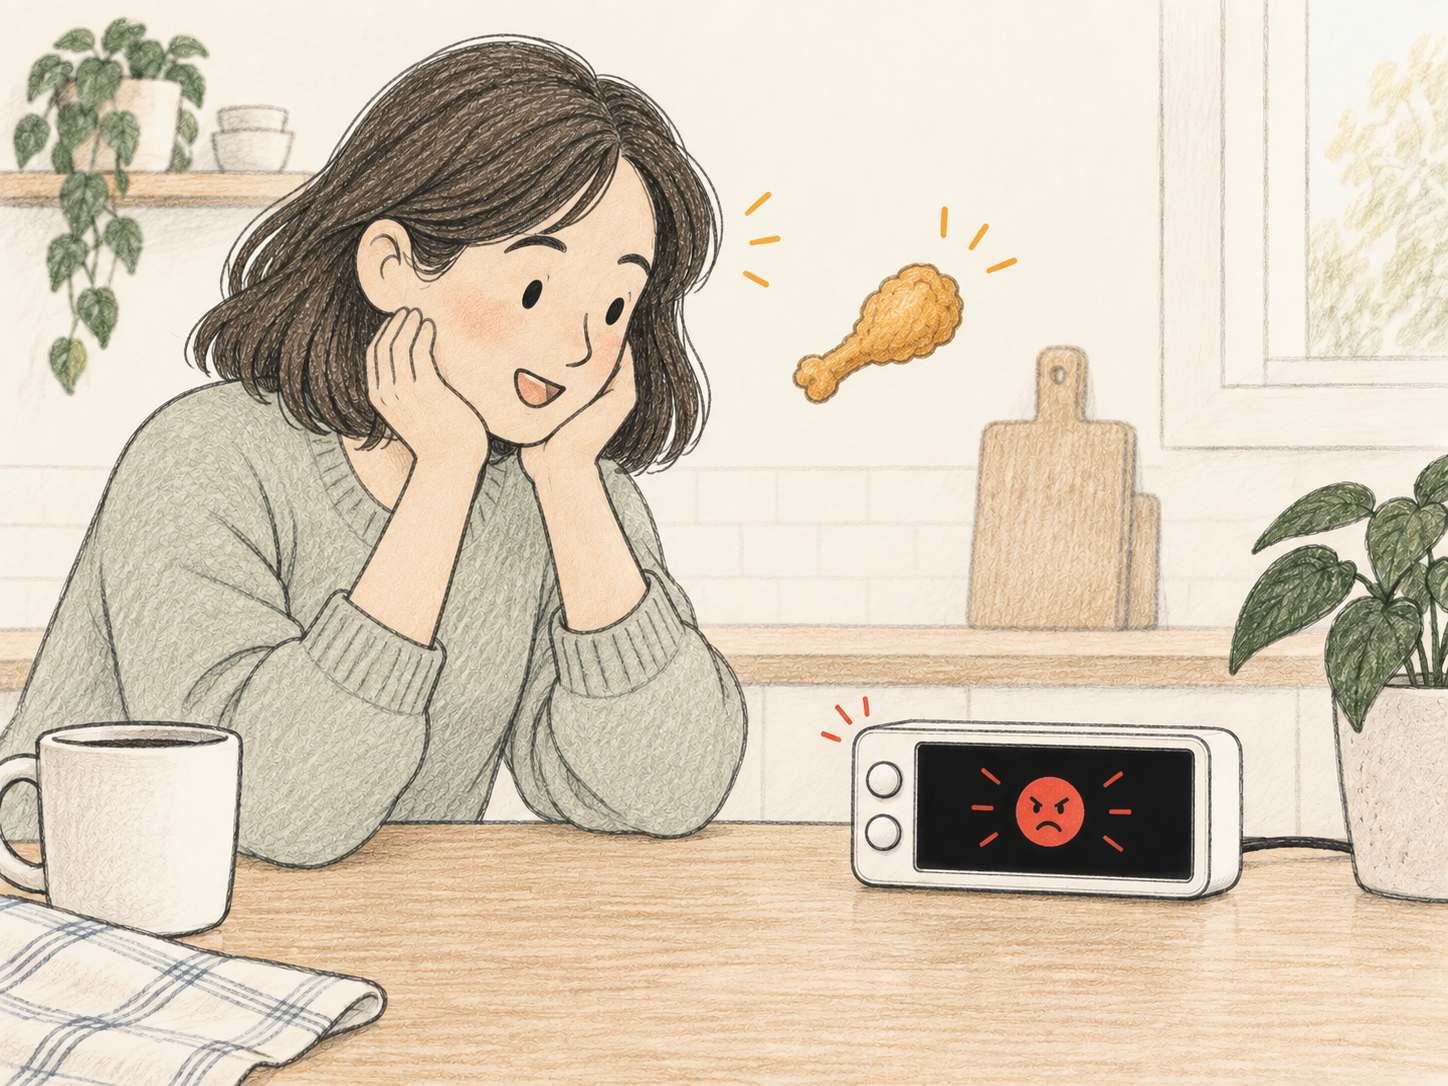
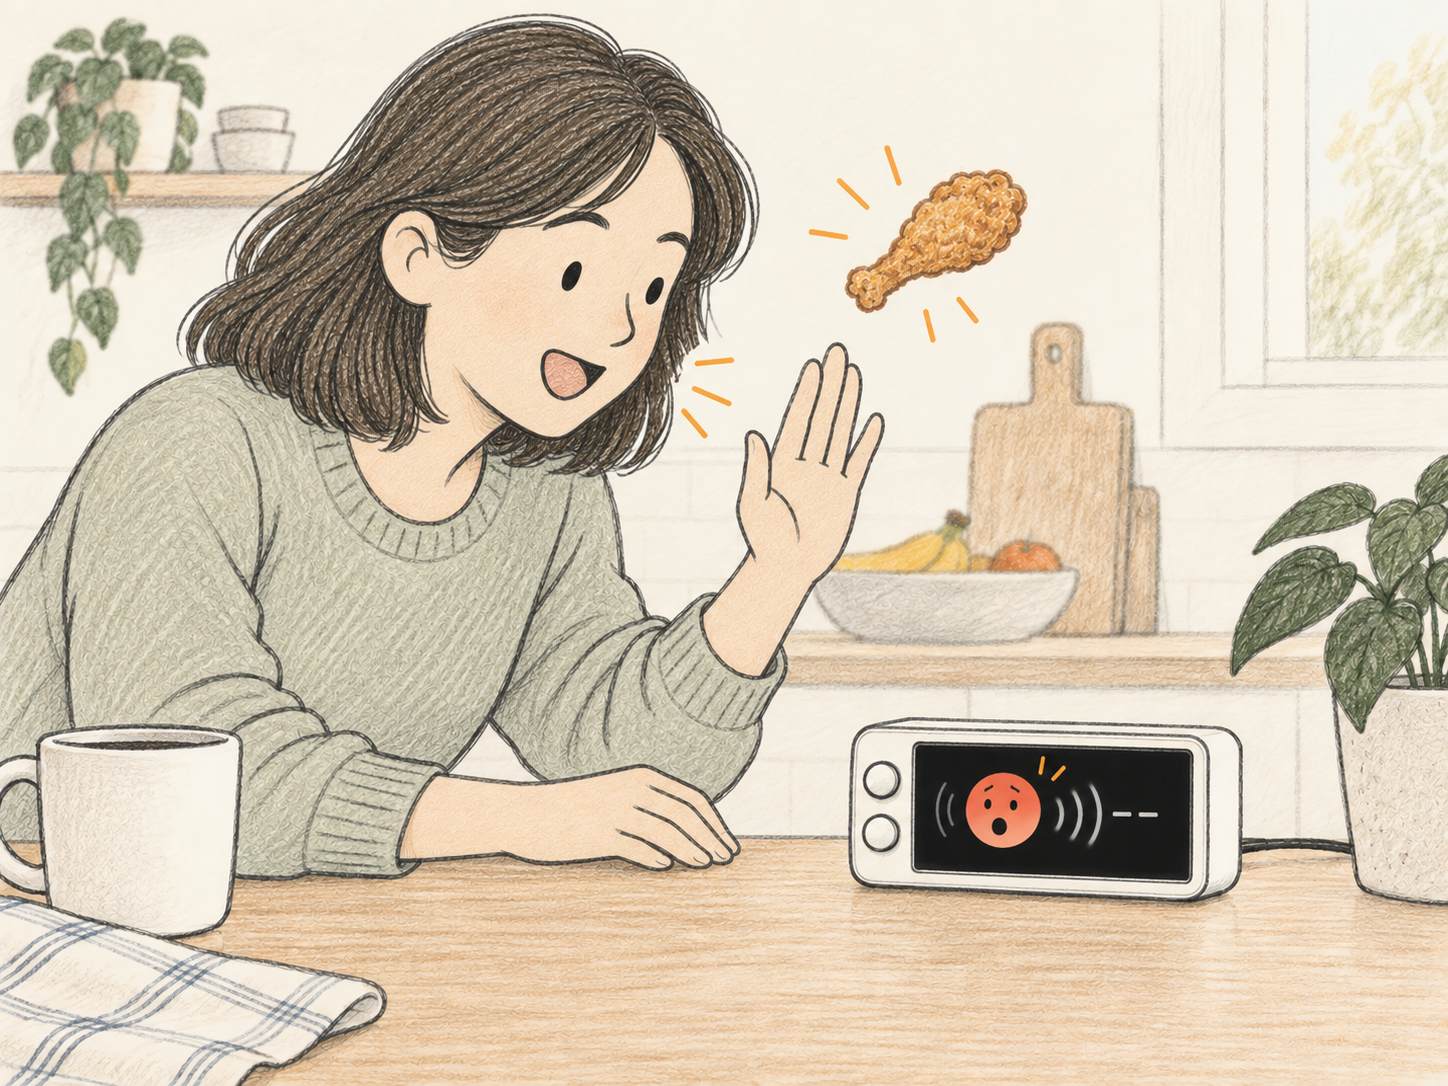
Clarify Lab 3 storyboard turn taking

diff --git a/Lab 3/storyboard-roast-coach.html b/Lab 3/storyboard-roast-coach.html
@@ -24,6 +24,9 @@
     figcaption { padding-top:8px; }
     figcaption strong { display:block; font:700 18px/1.15 Georgia,"Times New Roman",serif; }
     figcaption span { display:block; margin-top:4px; color:var(--muted); font-size:10px; line-height:1.4; letter-spacing:.06em; text-transform:uppercase; }
+    .cue-defs { position:absolute; width:0; height:0; overflow:hidden; }
+    .cue { display:flex; align-items:center; gap:7px; margin-top:4px; color:var(--muted); font-size:10px; line-height:1.4; letter-spacing:.06em; text-transform:uppercase; }
+    .cue svg { flex:none; width:54px; height:15px; fill:none; stroke:currentColor; stroke-width:1.35; stroke-linecap:round; stroke-linejoin:round; }
     .done figcaption strong { color:#ad5e3c; }
     .rhythm { display:flex; justify-content:space-between; align-items:center; gap:40px; border-top:1px solid var(--line); margin-top:38px; padding-top:20px; }
     .rhythm p { margin:0; display:flex; gap:28px; color:var(--muted); font-size:10px; letter-spacing:.06em; text-transform:uppercase; line-height:1.6; }
@@ -43,32 +46,38 @@
   <nav class="tools" aria-label="Download"><a href="storyboard-roast-coach-render.png" download>Download PNG</a></nav>
   <main class="page" id="storyboard">
     <h1>The Roast Coach</h1>
+<svg class="cue-defs" aria-hidden="true" xmlns="http://www.w3.org/2000/svg">
+  <symbol id="cue-listen" viewBox="0 0 60 16"><path d="M2 8 C7 8 7 3 12 3 S17 13 22 13 S27 3 32 3 S37 13 42 13 L49 8 M49 4 L55 8 L49 12"/></symbol>
+  <symbol id="cue-speak" viewBox="0 0 60 16"><path d="M11 4 L5 8 L11 12 M5 8 H16 C21 8 21 3 26 3 S31 13 36 13 S41 3 46 3 S51 8 56 8"/></symbol>
+  <symbol id="cue-cut" viewBox="0 0 60 16"><path d="M2 8 C6 8 6 3 10 3 S14 13 18 13 L22 8 M25 3 L33 13 M33 3 L25 13 M37 8 C41 8 41 3 45 3 S49 13 53 13 M53 4 L58 8 L53 12"/></symbol>
+  <symbol id="cue-hold" viewBox="0 0 60 16"><path d="M5 8 H55"/></symbol>
+</svg>
 <section class="route" aria-labelledby="route-food">
   <h2 id="route-food">One check-in · three food reports</h2>
   <div class="grid">
     <figure>
       <div class="frame"><img src="assets/storyboard-roast-coach/01-start.png" alt="A woman presses the top button of a two-button Orange device; a small neutral face wakes on its screen."><span class="number">01</span></div>
-      <figcaption><strong>Press to check in</strong><span>TOP BUTTON · LISTENING</span></figcaption>
+      <figcaption><strong>Press to check in</strong><small class="cue"><svg aria-hidden="true"><use href="#cue-listen"/></svg>USER → DEVICE · LISTENING</small></figcaption>
     </figure>
     <figure>
       <div class="frame"><img src="assets/storyboard-roast-coach/02-broccoli.png" alt="The woman reports broccoli; the device shows a delighted green circular face."><span class="number">02</span></div>
-      <figcaption><strong>Broccoli earns a cheer</strong><span>GREEN · PROUD</span></figcaption>
+      <figcaption><strong>Broccoli earns a cheer</strong><small class="cue"><svg aria-hidden="true"><use href="#cue-speak"/></svg>DEVICE → USER · GREEN PRAISE</small></figcaption>
     </figure>
     <figure>
       <div class="frame"><img src="assets/storyboard-roast-coach/03-cake.png" alt="The woman admits cake; the circular face turns yellow and raises an eyebrow."><span class="number">03</span></div>
-      <figcaption><strong>Cake raises an eyebrow</strong><span>YELLOW · DRY SARCASM</span></figcaption>
+      <figcaption><strong>Cake raises an eyebrow</strong><small class="cue"><svg aria-hidden="true"><use href="#cue-speak"/></svg>DEVICE → USER · YELLOW ROAST</small></figcaption>
     </figure>
     <figure>
-      <div class="frame"><img src="assets/storyboard-roast-coach/04-chicken.png" alt="The woman adds fried chicken; the device face turns red and glares."><span class="number">04</span></div>
-      <figcaption><strong>Then: fried chicken</strong><span>INTERRUPTION · RED</span></figcaption>
+      <div class="frame"><img src="assets/storyboard-roast-coach/04-chicken.png" alt="The woman raises a hand and interrupts the coach with fried chicken; its yellow face starts turning red as its speech cuts off."><span class="number">04</span></div>
+      <figcaption><strong>She interrupts the coach</strong><small class="cue"><svg aria-hidden="true"><use href="#cue-cut"/></svg>FRIED CHICKEN · VOICE CUT</small></figcaption>
     </figure>
     <figure>
       <div class="frame"><img src="assets/storyboard-roast-coach/05-pause.png" alt="Close-up of the red circular face holding a silent stare while the woman waits."><span class="number">05</span></div>
-      <figcaption><strong>Hold the stare</strong><span>ONE COMIC BEAT</span></figcaption>
+      <figcaption><strong>Hold the stare</strong><small class="cue"><svg aria-hidden="true"><use href="#cue-hold"/></svg>RED · ONE SECOND SILENCE</small></figcaption>
     </figure>
     <figure>
       <div class="frame"><img src="assets/storyboard-roast-coach/06-laugh.png" alt="The woman laughs and reaches for the top button as the red circular face smirks."><span class="number">06</span></div>
-      <figcaption><strong>The punchline lands</strong><span>USER LAUGHS · PRESS TO STOP</span></figcaption>
+      <figcaption><strong>The punchline lands</strong><small class="cue"><svg aria-hidden="true"><use href="#cue-speak"/></svg>DEVICE → USER · LAUGH / STOP</small></figcaption>
     </figure>
   </div>
 </section>

diff --git a/Lab 3/README.md b/Lab 3/README.md
@@ -270,9 +270,11 @@ Storyboard and/or use a Verplank diagram to design a speech-enabled device. (Stu
 >
 > [Open the storyboard HTML](storyboard-roast-coach.html) (the PNG above is the report version).
 >
-> **Concept and process.** We first mapped the idea with Verplank's eight prompts: **Idea/Error:** turn an ordinary food log into an entertaining conversation whose feedback is easier to notice; **Metaphor/Scenario:** a demanding but funny coach hears a person's day of eating; **Model/Task:** the person presses the top button, reports foods in sequence, and understands that the coach's mood responds to the day's reported context; **Display/Control:** spoken praise or a roast is paired with one animated face on Orange's screen, and the same button ends the session. We then reduced that into six beats: check in, broccoli, cake, fried chicken, a held stare, and a punchline. The last two beats leave space for a reaction shot when filming.
+> **Concept and process.** We first mapped the idea with Verplank's eight prompts: **Idea/Error:** turn an ordinary food log into an entertaining conversation whose feedback is easier to notice; **Metaphor/Scenario:** a demanding but funny coach hears a person's day of eating; **Model/Task:** the person presses the top button, reports foods in sequence, and understands that the coach's mood responds to the day's reported context; **Display/Control:** spoken praise or a roast is paired with one animated face on Orange's screen, and the same button ends the session. We reduced that into six beats: check in, broccoli, cake, interruption with fried chicken, a held stare, and a punchline. The last two beats leave space for a reaction shot when filming.
 >
 > This is a **proposed interaction**, not a completed calorie tracker. The coach remembers the foods reported in this check-in and uses tentative calorie context to change its tone; it would ask about portions before making a numeric claim. The face shows the coach's reaction: green smiles and bounces, yellow raises an eyebrow, and red glares before a stronger roast. A future app-side function could receive mood, expression, and motion cues and render the face in step with the voice, using a local function or MCP-backed tool. The color is not a measured calorie total. For Part 1, speech remains primary; the screen is a direction for Part 2.
+>
+> **Storyboarding revision.** The first image made the fried-chicken turn look like another ordinary report. We redrew it as a user interruption, then removed sound marks from the red face's silent stare. The small grey wave below each frame now shows the turn: toward the device means listening, toward the user means the coach speaks, the slashed wave means interruption, and the flat line means silence. Color still shows only the coach's mood. We need to test whether someone can read that change without this explanation and whether the pause works when acted out.
 
 Write out what you imagine the dialogue to be. Use cards, post-its, or whatever method helps you develop alternatives or group responses.
 
@@ -280,7 +282,7 @@ Write out what you imagine the dialogue to be. Use cards, post-its, or whatever 
 
 Your script should include the pauses. Where does your device wait, and for how long? You now know from Part C that this is a parameter you have to choose, not something that happens for free.
 
-> **Draft performance script (spoken in Chinese).** The user presses the top button. After each reported food, the coach waits about 0.4 s to check whether the user has finished. User: “今天吃了西兰花。” Coach, green and upbeat: “西兰花？漂亮，今天的营养部门终于开门营业了。” User: “还有一块蛋糕。” The face turns yellow, raises an eyebrow, and waits about 0.5 s: “哦，蛋糕。西兰花刚发的喜报，现在得加一句‘情况有变’。” The user interrupts or adds “还有炸鸡。” The coach stops talking, turns red, holds an exaggerated silent stare for about 1 s, then says: “炸鸡也来了？西兰花刚拿优秀员工奖，蛋糕和炸鸡就把公司收购了。下一顿别拍续集。” The user laughs and presses the top button to end. These pauses are **staging targets for the video**, not measured device timing; we would tune them after acting out the exchange.
+> **Draft performance script (spoken in Chinese).** The user presses the top button. After a clear user pause, the coach waits about 0.4 s before replying. User: “今天吃了西兰花。” Coach, green and upbeat: “西兰花？漂亮，今天的营养部门终于开门营业了。” User: “还有一块蛋糕。” The face turns yellow, raises an eyebrow, and waits about 0.5 s. Coach begins: “哦，蛋糕。西兰花刚发的喜报——” User interrupts: “还有炸鸡。” The coach stops mid-sentence, turns red, holds a silent stare for about 1 s, then says: “炸鸡也来了？西兰花刚拿优秀员工奖，蛋糕和炸鸡就把公司收购了。下一顿别拍续集。” The user laughs and presses the top button to end. These pauses are **staging targets for the video**, not measured device timing; we would tune them after acting out the exchange.
 >
 > The joke escalates with the food sequence and the face's timing. The roast addresses the menu and choices, not the person's body. If the user corrects a food, interrupts, or asks for a gentler tone, the coach should listen and adjust. This response rule and the synchronized face are design intentions; the current Orange prototype has only verified button-controlled voice conversation, without the mood display or food-log tool.
 

diff --git a/Lab 3/assets/storyboard-roast-coach/prompts.md b/Lab 3/assets/storyboard-roast-coach/prompts.md
@@ -1,6 +1,6 @@
 # Storyboard image generation prompts
 
-Generated with the built-in Imagegen tool on 2026-09-23. Each frame was generated as a separate 4:3 illustration; HTML supplies all captions and numbers. The Lab 2 storyboard was a **style reference only** for frame 01. Frames 02–06 used the accepted frame 01 as a **continuity reference**. Frames 05 and 06 were then edited to remove unrelated food bubbles; only the edited versions are used.
+Generated with the built-in Imagegen tool on 2026-09-23. Each frame was generated as a separate 4:3 illustration; HTML supplies all captions and numbers. The Lab 2 storyboard was a **style reference only** for frame 01. Frames 02–06 used the accepted frame 01 as a **continuity reference**. Frames 05 and 06 were then edited to remove unrelated food bubbles; only the edited versions are used. Frame 04 was later redrawn to show the interruption, and frame 05 was edited again to make its silence visible.
 
 ## 01-start.png
 
@@ -24,15 +24,21 @@ Reference: 01-start.png, exact character/device continuity guide. The following 
 
 ### 04-chicken.png
 
-> Panel 4. Same kitchen, scene widens slightly. She adds that she ate fried chicken too, hand near face as if bracing for the response. A single small fried chicken drumstick memory doodle floats near her gesture. The one circular face on device screen has gone vivid red with narrowed angry eyebrows, little radiating agitation ticks. She watches it with surprised amusement. No other food.
+The earlier version showed another ordinary food report. The accepted replacement used 01-start.png as its **continuity reference** and this complete prompt:
+
+> Use case: illustration-story. Create ONE standalone landscape 4:3 storyboard frame for panel 4 of an existing six-panel sequence. The reference image supplies exact style, woman identity, sage sweater, kitchen, and same white rectangular Orange/Raspberry Pi device with exactly two vertically stacked round buttons on the left of its black horizontal screen. Preserve warm ivory paper, graphite outlines, sparse colored pencil. Scene: immediately after the coach begins a dry cake joke, the woman suddenly leans forward and interjects 'and fried chicken' mid-reply. Show her mouth open as she speaks, one hand raised in a small 'wait, one more thing' gesture, the other arm resting naturally on the table. She must have exactly two anatomically connected arms and two hands. A single small fried chicken drumstick memory doodle floats near her raised hand, not physical food. On the device screen, show ONE circular coach face changing from yellow to red, with a startled cut-off expression (not a settled angry scowl yet). Show the voice interruption visually with a short outgoing pencil audio wave from the device that ENDS abruptly with a small broken line, while a few new inward sound marks near the woman's mouth imply she is taking the turn. No text, speech bubbles, labels, letters, collage, numbers, borders, extra fingers, extra hands, or other foods. The human interruption and device being cut off must read clearly at thumbnail size.
 
 ### 05-pause.png
 
 > Panel 5. Dramatic reaction close-up of the SAME Raspberry Pi device with its two stacked buttons and black screen; in the screen ONE vivid red circular face with eyebrows raised as if incredulous, mouth closed, holding a theatrical silent beat before delivering the punchline. A small pulse of light and sparse graphite motion arcs suggest a held pause. Woman's face appears only in edge of frame, watching expectantly. No food, no text.
 
-Edit target: the first generated panel 05. Final edit prompt:
+Edit target: the first generated panel 05. First edit prompt:
 
 > Use case: precise-object-edit. This image is the EDIT TARGET, not just a style reference. Remove ONLY the entire thought bubble containing banana and apple, including its outlines and adjacent radiating marks. Restore that upper central area as the same clean warm ivory kitchen wall, matching existing subtle pencil texture. Keep woman, her expression, device, two buttons, black screen, single red circular face, kitchen counter, plant, style, composition and dimensions unchanged. Do not add new text, labels, symbols, food, or bubbles.
+
+The storyboard revision also removed sound waves from this silent beat. The accepted panel 05 used the first edited panel as its **edit target**:
+
+> Use case: precise-object-edit. The referenced image is the EDIT TARGET. This storyboard panel must depict a perfectly silent, held reaction beat. Remove ONLY all sound-wave arcs and motion ticks around and inside the device: the grey curved audio arcs on both sides of the red face on the black screen, and the small orange attention marks above the white device. Keep the ONE red circular face with its wide eyes, closed flat mouth, same size and position, and keep the black screen clean and empty around it. Preserve the woman's partial face at the left edge, her pose, the white device and its two vertically stacked round buttons, kitchen background, plant, tabletop, pencil texture, framing, and all other colors and objects. No new symbols, sound waves, food, hands, labels, or text.
 
 ### 06-laugh.png
 

diff --git a/Lab 3/AGENTS.md b/Lab 3/AGENTS.md
@@ -5,7 +5,8 @@ Read README.md and the Hub root instructions before changing this Lab. Keep the 
 ## Food coach concept, 2026-09-23
 
 - The current storyboard concept is a Chinese-speaking, strict, theatrical, sarcastic food coach for Orange. The user presses the **top** button, reports foods aloud, and can interrupt or end the conversation with that button. The video should be funny: escalating menu jokes, deliberate pauses, a visible face change, and a human reaction shot are core to the experience.
-- The example sequence is broccoli -> cake -> fried chicken. Approval is a bouncing green smile; dry sarcasm is a yellow raised eyebrow; stronger contextual criticism is a red glare, then a comic punchline. The coach remembers foods within the check-in and uses tentative calorie context to adjust tone. The visual readout is the **coach's reaction to the reported day**, not an objective nutritional score or measured calories. Numeric food estimates require portion information and checked data.
+- The example sequence is broccoli -> cake -> fried chicken. The user interrupts the coach's cake joke with fried chicken; the coach stops mid-sentence, stares silently for a staged one-second beat, and then delivers the contextual punchline. Approval is a bouncing green smile; dry sarcasm is a yellow raised eyebrow; stronger contextual criticism is a red glare. The coach remembers foods within the check-in and uses tentative calorie context to adjust tone. The visual readout is the **coach's reaction to the reported day**, not an objective nutritional score or measured calories. Numeric food estimates require portion information and checked data.
+- The storyboard's grey voice cues are separate from the mood colors: wave toward the device means listening, wave toward the user means coach speech, slash means an interrupted turn, flat line means a silent beat. Keep captions short and draw one logical step per frame. Check that viewers understand the interruption without reading the longer explanation.
 - A future app-side mood/render function may accept mood, expression, and motion cues from the model and animate one circular face on Orange's screen in sync with speech. A local function or MCP-backed tool are candidate transports; neither is a decided or implemented architecture. Explore an animation library only when implementation is in scope.
 - Keep the humor sharp and consensual, aimed at the food sequence rather than a person's body. Allow correction, interruption, and a gentler tone on request. Do not present designed timing, reactions, or user laughter as actual test results.
 - Current verified code is the button-controlled GPT-Live voice prototype in speech-scripts/roast_master_live.py and speech-scripts/roast_button.py. The current voice prompt is an earlier roast persona and does **not** implement the new praise/sarcasm/context progression or face tool. Do not quietly report the storyboard behavior as built.
